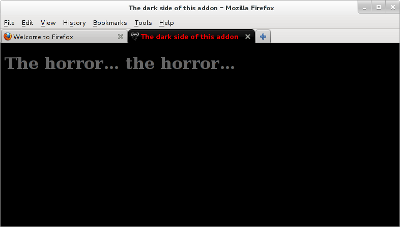
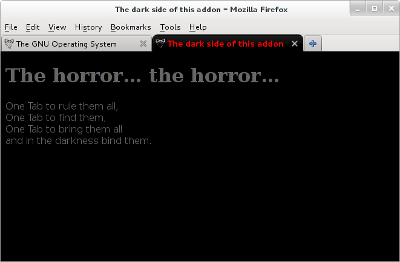
new example

diff --git a/data/dark-side.html b/data/dark-side.html
@@ -20,6 +20,11 @@ h1 {
 </head>
 <body>
 <h1>The horror… the horror…</h1>
-
+<p>
+One Tab to rule them all,<br/>
+One Tab to find them,<br/>
+One Tab to bring them all<br/>
+and in the darkness bind them.<br/>
+</p>
 </body>
 </html>
